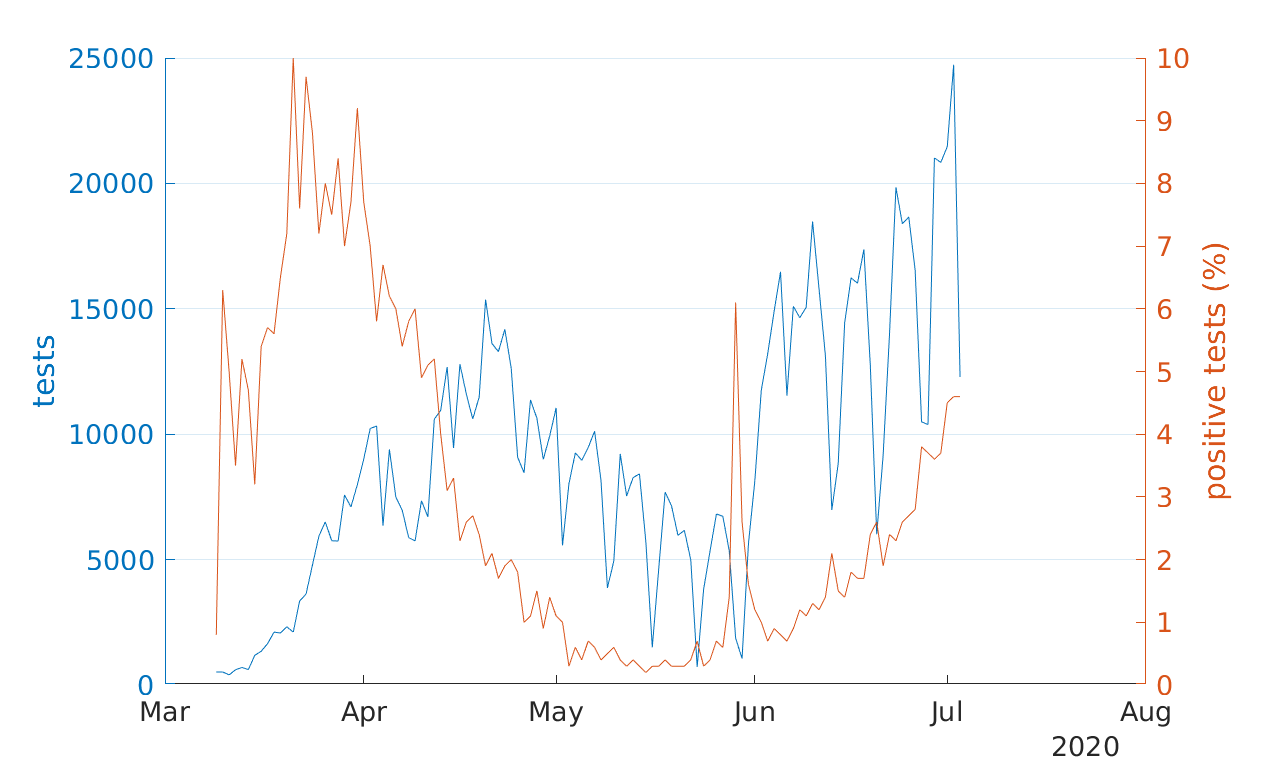
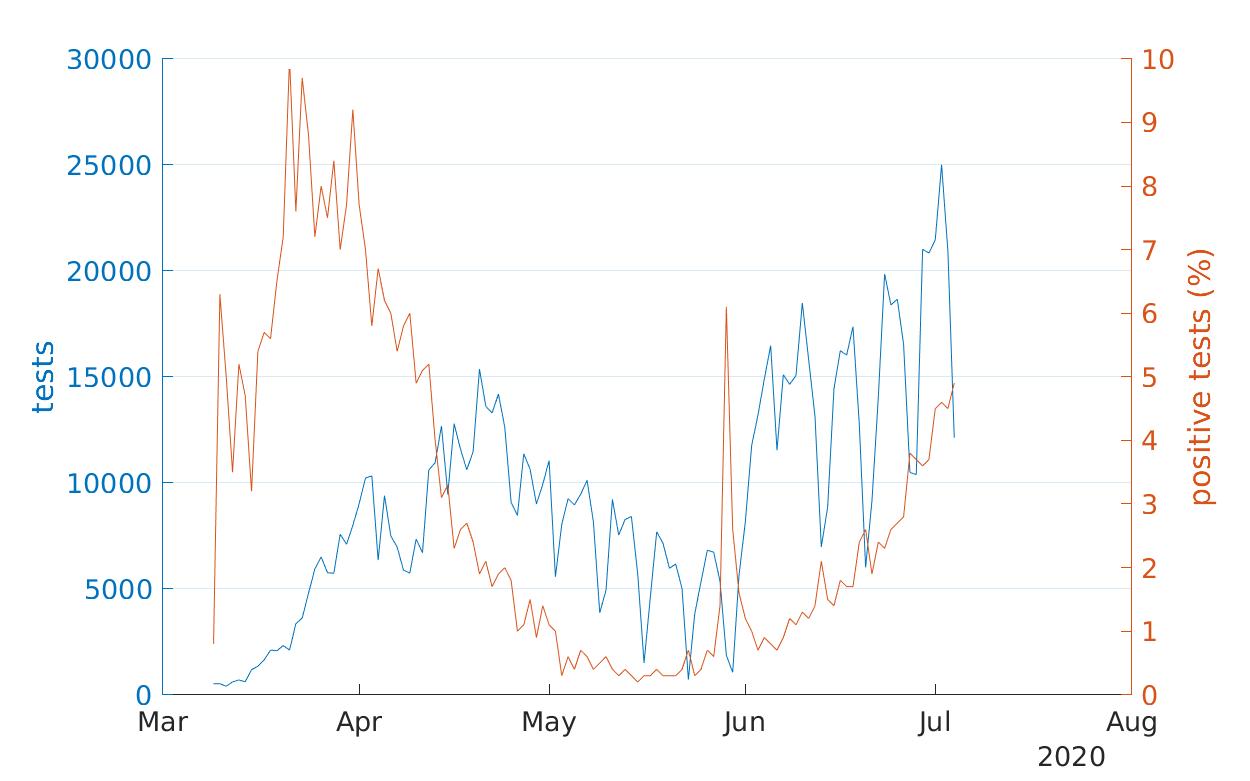
daily update

diff --git a/docs/myCountry.html b/docs/myCountry.html
@@ -121,16 +121,16 @@ body, h1,h2,h3,h4,h5,h6 {font-family: "Montserrat", sans-serif}
 <!-- Page Content -->
 <div class="w3-padding-large" id="main">
   <header class="w3-container w3-padding-32 w3-center w3-black" id="home">
-    <h1 class="w3-jumbo">מצב חולי הקורונה בישראל, 03.07.2020</h1>
+    <h1 class="w3-jumbo">מצב חולי הקורונה בישראל, 04.07.2020</h1>
     <h3 align="right"> כמה חולים במצב קשה, מונשמים ומתים מקורונה בכל יום</h3><br>
-    <h4 align="right">מצב המונשמים - (בחמשת הימים האחרונים) כל יום יש כ 1 מונשמים יותר  </h4><br>
-    <h4 align="right">מצב התמותה - (בחמשת הימים האחרונים) כ 2 נפטרים ליום </h4><br>
+    <h4 align="right">מצב המונשמים - (בחמשת הימים האחרונים) כל יום יש כ 2 מונשמים יותר  </h4><br>
+    <h4 align="right">מצב התמותה - (בחמשת הימים האחרונים) כ 3 נפטרים ליום </h4><br>
     <img src="myCountry.png" alt="highest" class="w3-image" width="1600">
     <h4 align="right">מימין גרף הסוכם את כל המאושפזים. משמאל אותם הנתונים מוצגים עבור כל קבוצה בנפרד. הגרף מימין מוחלק כדי לראות טרנד כללי. משמאל קל יותר לראות שינויים קצרים, כמו המחזוריות השבועית במספר המאושפזים במצב קל </h4>
   </header>
   <header class="w3-container w3-padding-32 w3-center w3-black" id="home">
     <h1 class="w3-jumbo">אחוז הבדיקות החיוביות</h1>
-    <h3 align="center">תשובה חיובית התקבלה עבור 4.6% מהתוצאות היומיות  </h3>
+    <h3 align="center">תשובה חיובית התקבלה עבור 4.9% מהתוצאות היומיות  </h3>
     <img src="percent_positive.png" alt="highest" class="w3-image" width="851">
   </header>
   <header class="w3-container w3-padding-32 w3-center w3-black" id="home">

diff --git a/docs/realigned.html b/docs/realigned.html
@@ -95,7 +95,7 @@ body, h1,h2,h3,h4,h5,h6 {font-family: "Montserrat", sans-serif}
 <div class="w3-padding-large" id="main">
   <!-- Header/Home -->
   <header class="w3-container w3-padding-32 w3-center w3-black" id="home">
-    <h1 class="w3-jumbo">Realigned curves, 02.07.2020</h1>
+    <h1 class="w3-jumbo">Realigned curves, 03.07.2020</h1>
     <h3> Deaths per million, realigned such that each country's time zero is when 1 death per million was reached. We see the top 20 countries, and we zoom in to see better the bottom half.</h3>
     <img src="realigned.png" alt="realigned" class="w3-image" width="1500">
   </header>

diff --git a/docs/highest_countries.html b/docs/highest_countries.html
@@ -95,7 +95,7 @@ body, h1,h2,h3,h4,h5,h6 {font-family: "Montserrat", sans-serif}
 <div class="w3-padding-large" id="main">
   <!-- Header/Home -->
   <header class="w3-container w3-padding-32 w3-center w3-black" id="home">
-    <h1 class="w3-jumbo">Most affected countries, 02.07.2020</h1>
+    <h1 class="w3-jumbo">Most affected countries, 03.07.2020</h1>
     <h3> Deaths, deaths per million and daily toll. Each plot shows the top 10 countries for the corresponding category.</h3>
     <img src="highest.png" alt="highest" class="w3-image" width="2851">
   </header>

diff --git a/code/covid_Israel_moh_dashboard.m b/code/covid_Israel_moh_dashboard.m
@@ -3,7 +3,7 @@ function covid_Israel_moh_dashboard
 cd ~/covid-19-israel-matlab/
 %!curl 'https://datadashboardapi.health.gov.il/api/queries/_batch' -H 'Accept: application/json, text/plain, */*' -H 'Referer: https://datadashboard.health.gov.il/COVID-19/' -H 'Origin: https://datadashboard.health.gov.il' -H 'User-Agent: Mozilla/5.0 (X11; Linux x86_64) AppleWebKit/537.36 (KHTML, like Gecko) Chrome/74.0.3729.131 Safari/537.36' -H 'DNT: 1' -H 'Content-Type: application/json' --data-binary '{"requests":[{"id":"0","queryName":"lastUpdate","single":true,"parameters":{}},{"id":"1","queryName":"infectedPerDate","single":false,"parameters":{}},{"id":"2","queryName":"updatedPatientsOverallStatus","single":false,"parameters":{}},{"id":"3","queryName":"sickPerDateTwoDays","single":false,"parameters":{}},{"id":"4","queryName":"sickPerLocation","single":false,"parameters":{}},{"id":"5","queryName":"patientsPerDate","single":false,"parameters":{}},{"id":"6","queryName":"deadPatientsPerDate","single":false,"parameters":{}},{"id":"7","queryName":"recoveredPerDay","single":false,"parameters":{}},{"id":"8","queryName":"testResultsPerDate","single":false,"parameters":{}},{"id":"9","queryName":"infectedPerDate","single":false,"parameters":{}},{"id":"10","queryName":"patientsPerDate","single":false,"parameters":{}},{"id":"11","queryName":"doublingRate","single":false,"parameters":{}},{"id":"12","queryName":"infectedByAgeAndGenderPublic","single":false,"parameters":{"ageSections":[0,10,20,30,40,50,60,70,80,90]}},{"id":"13","queryName":"isolatedDoctorsAndNurses","single":true,"parameters":{}},{"id":"14","queryName":"testResultsPerDate","single":false,"parameters":{}},{"id":"15","queryName":"contagionDataPerCityPublic","single":false,"parameters":{}},{"id":"16","queryName":"hospitalStatus","single":false,"parameters":{}}]}' --compressed -o tmp.json
 %!curl 'https://datadashboardapi.health.gov.il/api/queries/_batch' -H 'Accept: application/json, text/plain, */*' -H 'Referer: https://datadashboard.health.gov.il/COVID-19/' -H 'Origin: https://datadashboard.health.gov.il' -H 'User-Agent: Mozilla/5.0 (X11; Linux x86_64) AppleWebKit/537.36 (KHTML, like Gecko) Chrome/74.0.3729.131 Safari/537.36' -H 'DNT: 1' -H 'Content-Type: application/json' --data-binary '{"requests":[{"id":"5","queryName":"patientsPerDate","single":false,"parameters":{}}]}' --compressed -o tmp.json
-!curl 'https://datadashboardapi.health.gov.il/api/queries/_batch' -H 'Accept: application/json, text/plain, */*' -H 'Referer: https://datadashboard.health.gov.il/COVID-19/' -H 'Origin: https://datadashboard.health.gov.il' -H 'User-Agent: Mozilla/5.0 (X11; Linux x86_64) AppleWebKit/537.36 (KHTML, like Gecko) Chrome/74.0.3729.131 Safari/537.36' -H 'DNT: 1' -H 'Content-Type: application/json' --data-binary '{"requests":[{"id":"time","queryName":"lastUpdate","single":false,"parameters":{}},{"id":"confirmed","queryName":"infectedPerDate","single":false,"parameters":{}},{"id":"conf2days","queryName":"sickPerDateTwoDays","single":false,"parameters":{}},{"id":"home_hospital","queryName":"sickPerLocation","single":false,"parameters":{}},{"id":"table","queryName":"patientsPerDate","single":false,"parameters":{}},{"id":"recovered","queryName":"recoveredPerDay","single":false,"parameters":{}},{"id":"tests_positive","queryName":"testResultsPerDate","single":false,"parameters":{}},{"id":"doubling","queryName":"doublingRate","single":false,"parameters":{}},{"id":"age_gender","queryName":"infectedByAgeAndGenderPublic","single":false,"parameters":{"ageSections":[0,10,20,30,40,50,60,70,80,90]}},{"id":"staff","queryName":"isolatedDoctorsAndNurses","single":false,"parameters":{}},{"id":"city","queryName":"contagionDataPerCityPublic","single":false,"parameters":{}},{"id":"hospital","queryName":"hospitalStatus","single":false,"parameters":{}}]}' --compressed -o tmp.json
+[~,~] = system(['curl ''','https://datadashboardapi.health.gov.il/api/queries/_batch''',' -H ''','Accept: application/json, text/plain, */*''',' -H ''','Referer: https://datadashboard.health.gov.il/COVID-19/''',' -H ''','Origin: https://datadashboard.health.gov.il''',' -H ''','User-Agent: Mozilla/5.0 (X11; Linux x86_64) AppleWebKit/537.36 (KHTML, like Gecko) Chrome/74.0.3729.131 Safari/537.36''',' -H ''','DNT: 1''',' -H ''','Content-Type: application/json''',' --data-binary ''','{"requests":[{"id":"time","queryName":"lastUpdate","single":false,"parameters":{}},{"id":"confirmed","queryName":"infectedPerDate","single":false,"parameters":{}},{"id":"conf2days","queryName":"sickPerDateTwoDays","single":false,"parameters":{}},{"id":"home_hospital","queryName":"sickPerLocation","single":false,"parameters":{}},{"id":"table","queryName":"patientsPerDate","single":false,"parameters":{}},{"id":"recovered","queryName":"recoveredPerDay","single":false,"parameters":{}},{"id":"tests_positive","queryName":"testResultsPerDate","single":false,"parameters":{}},{"id":"doubling","queryName":"doublingRate","single":false,"parameters":{}},{"id":"age_gender","queryName":"infectedByAgeAndGenderPublic","single":false,"parameters":{"ageSections":[0,10,20,30,40,50,60,70,80,90]}},{"id":"staff","queryName":"isolatedDoctorsAndNurses","single":false,"parameters":{}},{"id":"city","queryName":"contagionDataPerCityPublic","single":false,"parameters":{}},{"id":"hospital","queryName":"hospitalStatus","single":false,"parameters":{}}]}''',' --compressed -o tmp.json']);
 
 fid = fopen('tmp.json','r');
 txt = fread(fid)';

diff --git a/code/covid_Israel.m b/code/covid_Israel.m
@@ -9,7 +9,6 @@ nCountries = 20;
 showDateEvery = 7; % days
 zer = 1; % how many deaths per million to count as day zero
 warning off
-disp('Reading tables...')
 type = 'deaths';
 [dataMatrix] = readCoronaData(type);
 [~,timeVector,mergedData] = processCoronaData(dataMatrix);
@@ -97,67 +96,8 @@ if any(isx == 0)
     error('missing country')
 end
 mil = pop.Population_2020_(idxc)/10^6;
-norm = cases./mil';
+norm = cases./mil'; %#ok<NASGU>
 
-%% plot bars
-
-% [y, iy] = sort(cellfun(@max, mergedData(:,2)),'descend');
-% %KOMP = mergedData(iy,1);
-% [~,isMy] = ismember(myCountry,mergedData(:,1));
-% isMy = iy == isMy;
-% yLog = log10(y);
-% yLog(yLog <= 0.1) = 0.1;
-% yt = 1:floor(max(yLog));
-% yLogNan = yLog;
-% yLogNan(~isMy) = nan;
-% yNan = y;
-% yNan(~isMy) = nan;
-
-
-% fig4 = figure('units','normalized','position',[0,0,1,1]);
-% subplot(3,1,1)
-% h1 = bar(y);
-% hold on
-% h2 = bar(yNan,'r');
-% plot(find(isMy),yNan(isMy),'or','MarkerSize',10)
-% set(gca,'YTick',10.^yt(2:end),'YTickLabel',10.^yt(2:end),'ygrid','on','XTickLabel',[],'FontSize',13)
-% legend([h1(1),h2(1)],'העולם','ישראל')
-% title(['מספר מתים למדינה',',',' ישראל במקום ה ',str(find(isMy))])
-% ylim([0 max(y)*1.05])
-% ylabel('מתים')
-% box off
-% text(2,y(1)*1.05,[mergedData{iy(1),1},' - ',str(y(1))],'FontSize',12)
-% 
-% subplot(3,1,2)
-% bar(yLog)
-% hold on
-% bar(yLogNan,'r')
-% set(gca,'YTick',[0.1,yt],'YTickLabel',[0,10.^yt],'ygrid','on','XTickLabel',[],'FontSize',13)
-% title('מספר מתים למדינה (אותם הנתונים בסולם לוגריתמי)')
-% ylim([0 max(yLog)*1.05])
-% ylabel('מתים')
-% box off
-% text(2,yLog(1)*1.05,[mergedData{iy(1),1},' - ',str(y(1))],'FontSize',12)
-% 
-% [y, iy] = sort(cellfun(@max, mergedData(:,2))./pop.Population_2020_(idx)*10^6,'descend');
-% %KOMP(:,2) = mergedData(iy,1);
-% [~,isMy] = ismember(myCountry,mergedData(:,1));
-% isMy = iy == isMy;
-% yLog = log10(y);
-% yLog(yLog <= 0.1) = 0.1;
-% yt = 1:floor(max(yLog));
-% yLogNan = yLog;
-% yLogNan(~isMy) = nan;
-% subplot(3,1,3)
-% bar(yLog);
-% hold on
-% bar(yLogNan,'r')
-% set(gca,'YTick',[0.1,yt],'YTickLabel',[0,10.^yt],'ygrid','on','XTickLabel',[],'FontSize',13)
-% ylabel('מתים למליון')
-% ylim([0 max(yLog)*1.05])
-% title(['מתים למליון (סולם לוגריתמי)',',',' ישראל במקום ה ',str(find(isMy))])
-% box
-% text(2,yLog(1)*1.05,[mergedData{iy(1),1},' - ',str(round(y(1)))],'FontSize',12)
 %% align
 
 aligned = nan(length(timeVector),length(mergedData));
@@ -174,9 +114,9 @@ tMy = find(isnan(aligned(:,iCol)),1)-1;
 farther = find(~isnan(aligned(tMy,:)));
 yT = aligned(tMy,farther);
 yMy = aligned(tMy,iCol);
-[yTo,order] = sort(yT,'descend');
+[yTo,order] = sort(yT,'descend'); %#ok<ASGLU>
 yToNan = yTo;
-yToNan(yTo ~= yMy) = nan;
+yToNan(yTo ~= yMy) = nan; %#ok<NASGU>
 % fig5 = figure('units','normalized','position',[0,0.25,1,0.7]);
 % bar(yTo)
 % hold on
@@ -219,7 +159,7 @@ for iPlot = 1:2
     end
     iChina = find(ismember(mergedData(:,1),'China'));
     text(xl,max(aligned(:,iChina)),'China',...
-        'FontSize',10,'Color',h(find(farther == iChina)).Color,'FontWeight','bold');
+        'FontSize',10,'Color',h(find(farther == iChina)).Color,'FontWeight','bold'); %#ok<FNDSB>
     hold on
     plot(aligned(:,iCol),'k','linewidth',2,'marker','.','MarkerSize',12)
     text(tMy,yMy,myCountry,'color','k','FontSize',16,'FontWeight','bold'); % 'BackgroundColor','y'
@@ -232,11 +172,11 @@ if saveFigs
     saveas(fig8,'docs/myCountry.png')
 end
 %%
-try
-    covid_israel_timna_hosp;
-catch
-    warning('unable to plot gender data')
-end
-covid_israel_percent_positive(1);
+% try
+%     covid_israel_timna_hosp;
+% catch
+%     warning('unable to plot gender data')
+% end
+covid_israel_percent_positive(saveFigs);
 
 

diff --git a/code/covid_Israel_ministry.m b/code/covid_Israel_ministry.m
@@ -6,7 +6,7 @@ cd ~/covid-19-israel-matlab/
 try
     txt = urlread('https://govextra.gov.il/ministry-of-health/corona/corona-virus/');
 catch
-    !wget -O tmp.html http://govextra.gov.il/ministry-of-health/corona/corona-virus/
+    [~,~] = system('wget -O tmp.html http://govextra.gov.il/ministry-of-health/corona/corona-virus/');
     fid = fopen('tmp.html', 'r');
     txt = fread(fid);
     fclose(fid);
@@ -26,7 +26,7 @@ end
 movefile('data/Israel/tmp.csv','data/Israel/covid19-data-israel.csv')
 
 %% get control panel
-!google-chrome --incognito https://datadashboard.health.gov.il/COVID-19/?utm_source=go.gov.il&utm_medium=referral && sleep 10 && xdotool key ctrl+s && sleep 3 && xdotool key Return && sleep 3 && xdotool key Return
+[~,~] = system('google-chrome --incognito https://datadashboard.health.gov.il/COVID-19/?utm_source=go.gov.il&utm_medium=referral && sleep 10 && xdotool key ctrl+s && sleep 3 && xdotool key Return && sleep 3 && xdotool key Return');
 pause(5)
 %% process text
 cd ~/covid-19-israel-matlab/

diff --git a/code/covid_israel_percent_positive.m b/code/covid_israel_percent_positive.m
@@ -22,7 +22,7 @@ if saveFigs
     saveas(fig,'docs/percent_positive.png');
     
     % update html
-    list.date(idx(end))
+%     list.date(idx(end))
     pp = str(round(100*list.tests_positive(idx(end))./list.tests(idx(end)),1));
     % date = datestr(list.date(idx(end)));
     fName = 'docs/myCountry.html';
@@ -43,7 +43,7 @@ end
 % hold on
 % scatter(datetime('18-Apr-2020'),2.7,'fill','k')
 % legend('בדיקות','בדיקות חיוביות','18-Apr')
-fig1 = figure('position',[50,50,800,500]);
+fig1 = figure('position',[50,50,800,500]); %#ok<NASGU>
 yyaxis left
 plot(list.date(idx),list.new_hospitalized(idx));
 ylabel('new hospitalized')

diff --git a/code/covid_update_html.m b/code/covid_update_html.m
@@ -78,8 +78,9 @@ fid = fopen(fName,'w');
 fwrite(fid,unicode2native(txt));
 fclose(fid);
 %% push
-!git add -A
-!git commit -m "daily update"
-!git pull
-!git push
+
+[~,~] = system('git add -A');
+[~,~] = system('git commit -m "daily update"');
+[~,~] = system('git pull');
+[~,~] = system('git push');
 %% old

diff --git a/code/covid_loop.m b/code/covid_loop.m
@@ -10,6 +10,7 @@ while true
             covid_Israel(1);
             covid_update_html;
             close all
+            disp('updated');
         end
         wait = 60*60*3;
     catch me

diff --git a/docs/README.md b/docs/README.md
@@ -17,7 +17,7 @@ For the 10 most affected countries by different criteria click [here](highest_co
 Realigned curves for top 20 countries [here](realigned.html)<br>
 To compare Israel to other countries [here](myCountry.html)<br>
 Stay safe     ![falafel](W3CSSTemplateFiles/falafel_trans.png)
-### Last updated for 02.07.2020
+### Last updated for 03.07.2020
 ### Acknowledgements
 The COVID-19 data is taken from the John Hopkins COVID-19 database. The data can be found [here](https://github.com/CSSEGISandData/COVID-19).<br>
 Spain has a drop in total deaths (25-May-2020) because of [data cleaning](https://english.elpais.com/society/2020-05-26/spanish-health-ministry-lowers-coronavirus-death-toll-by-nearly-2000.html). Regions of spain death tolls are provided by [datadista](https://github.com/datadista/datasets/blob/master/COVID%2019/ccaa_covid19_fallecidos.csv).<br>
